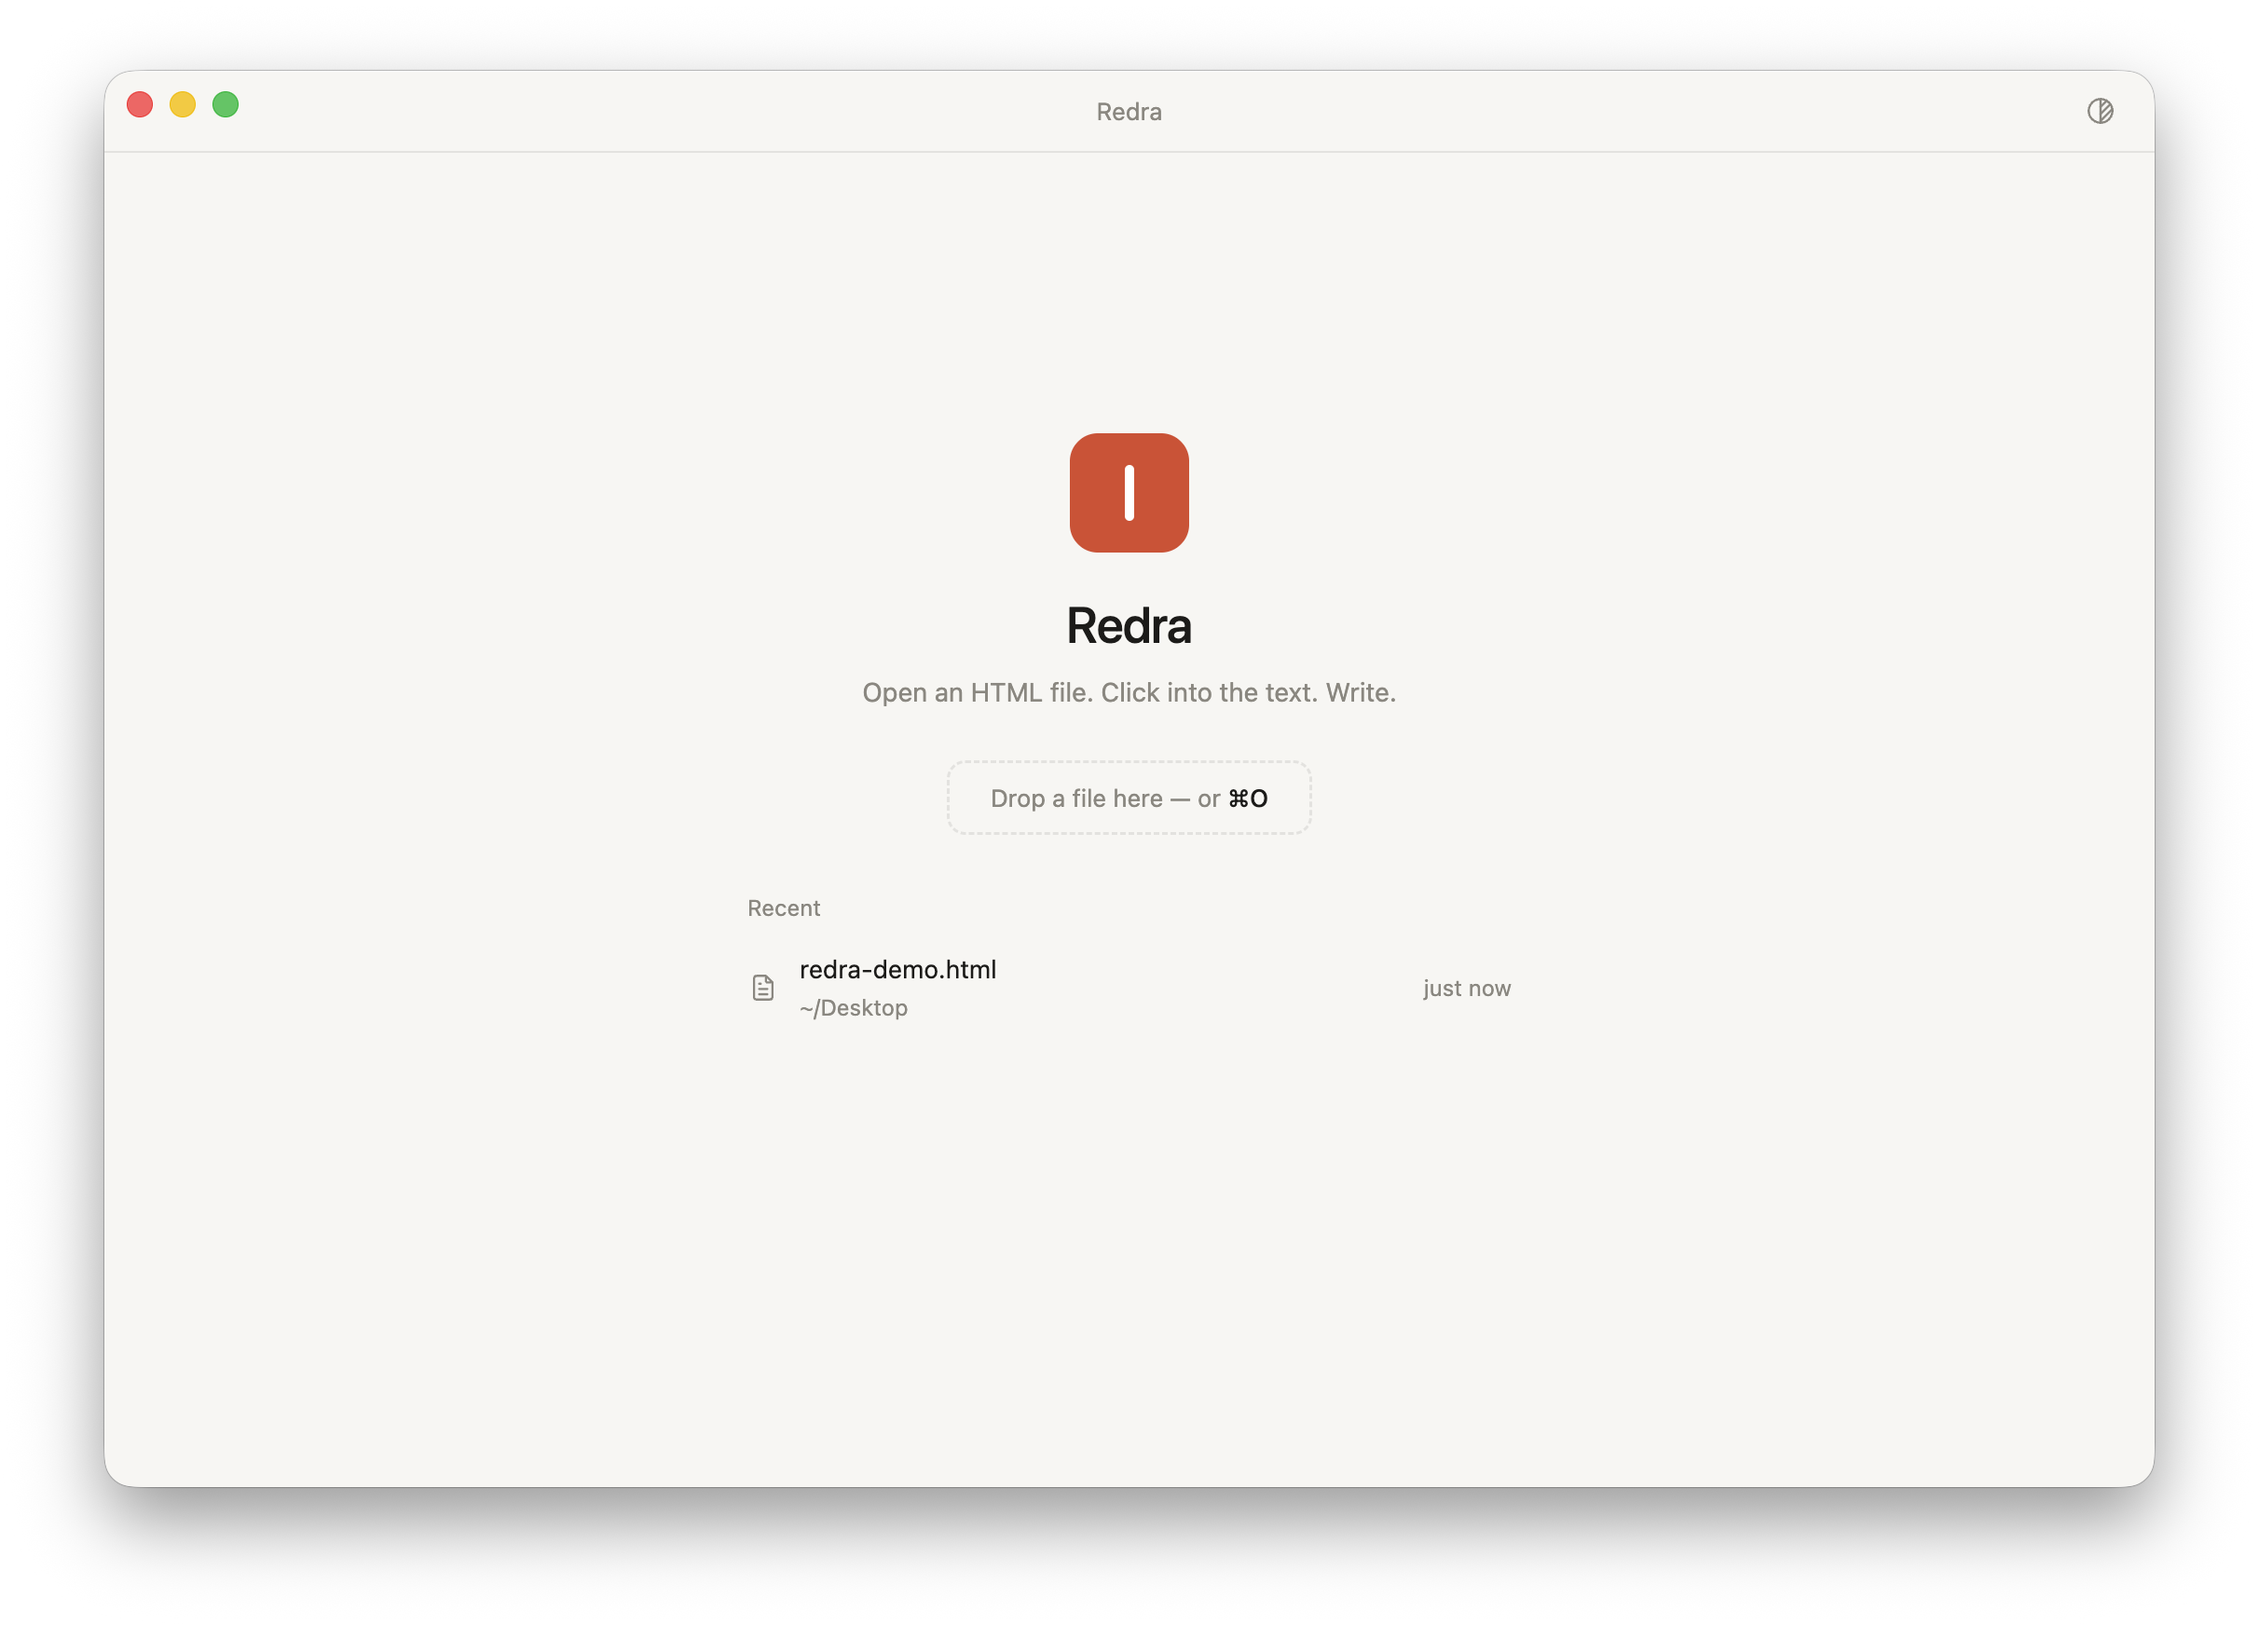
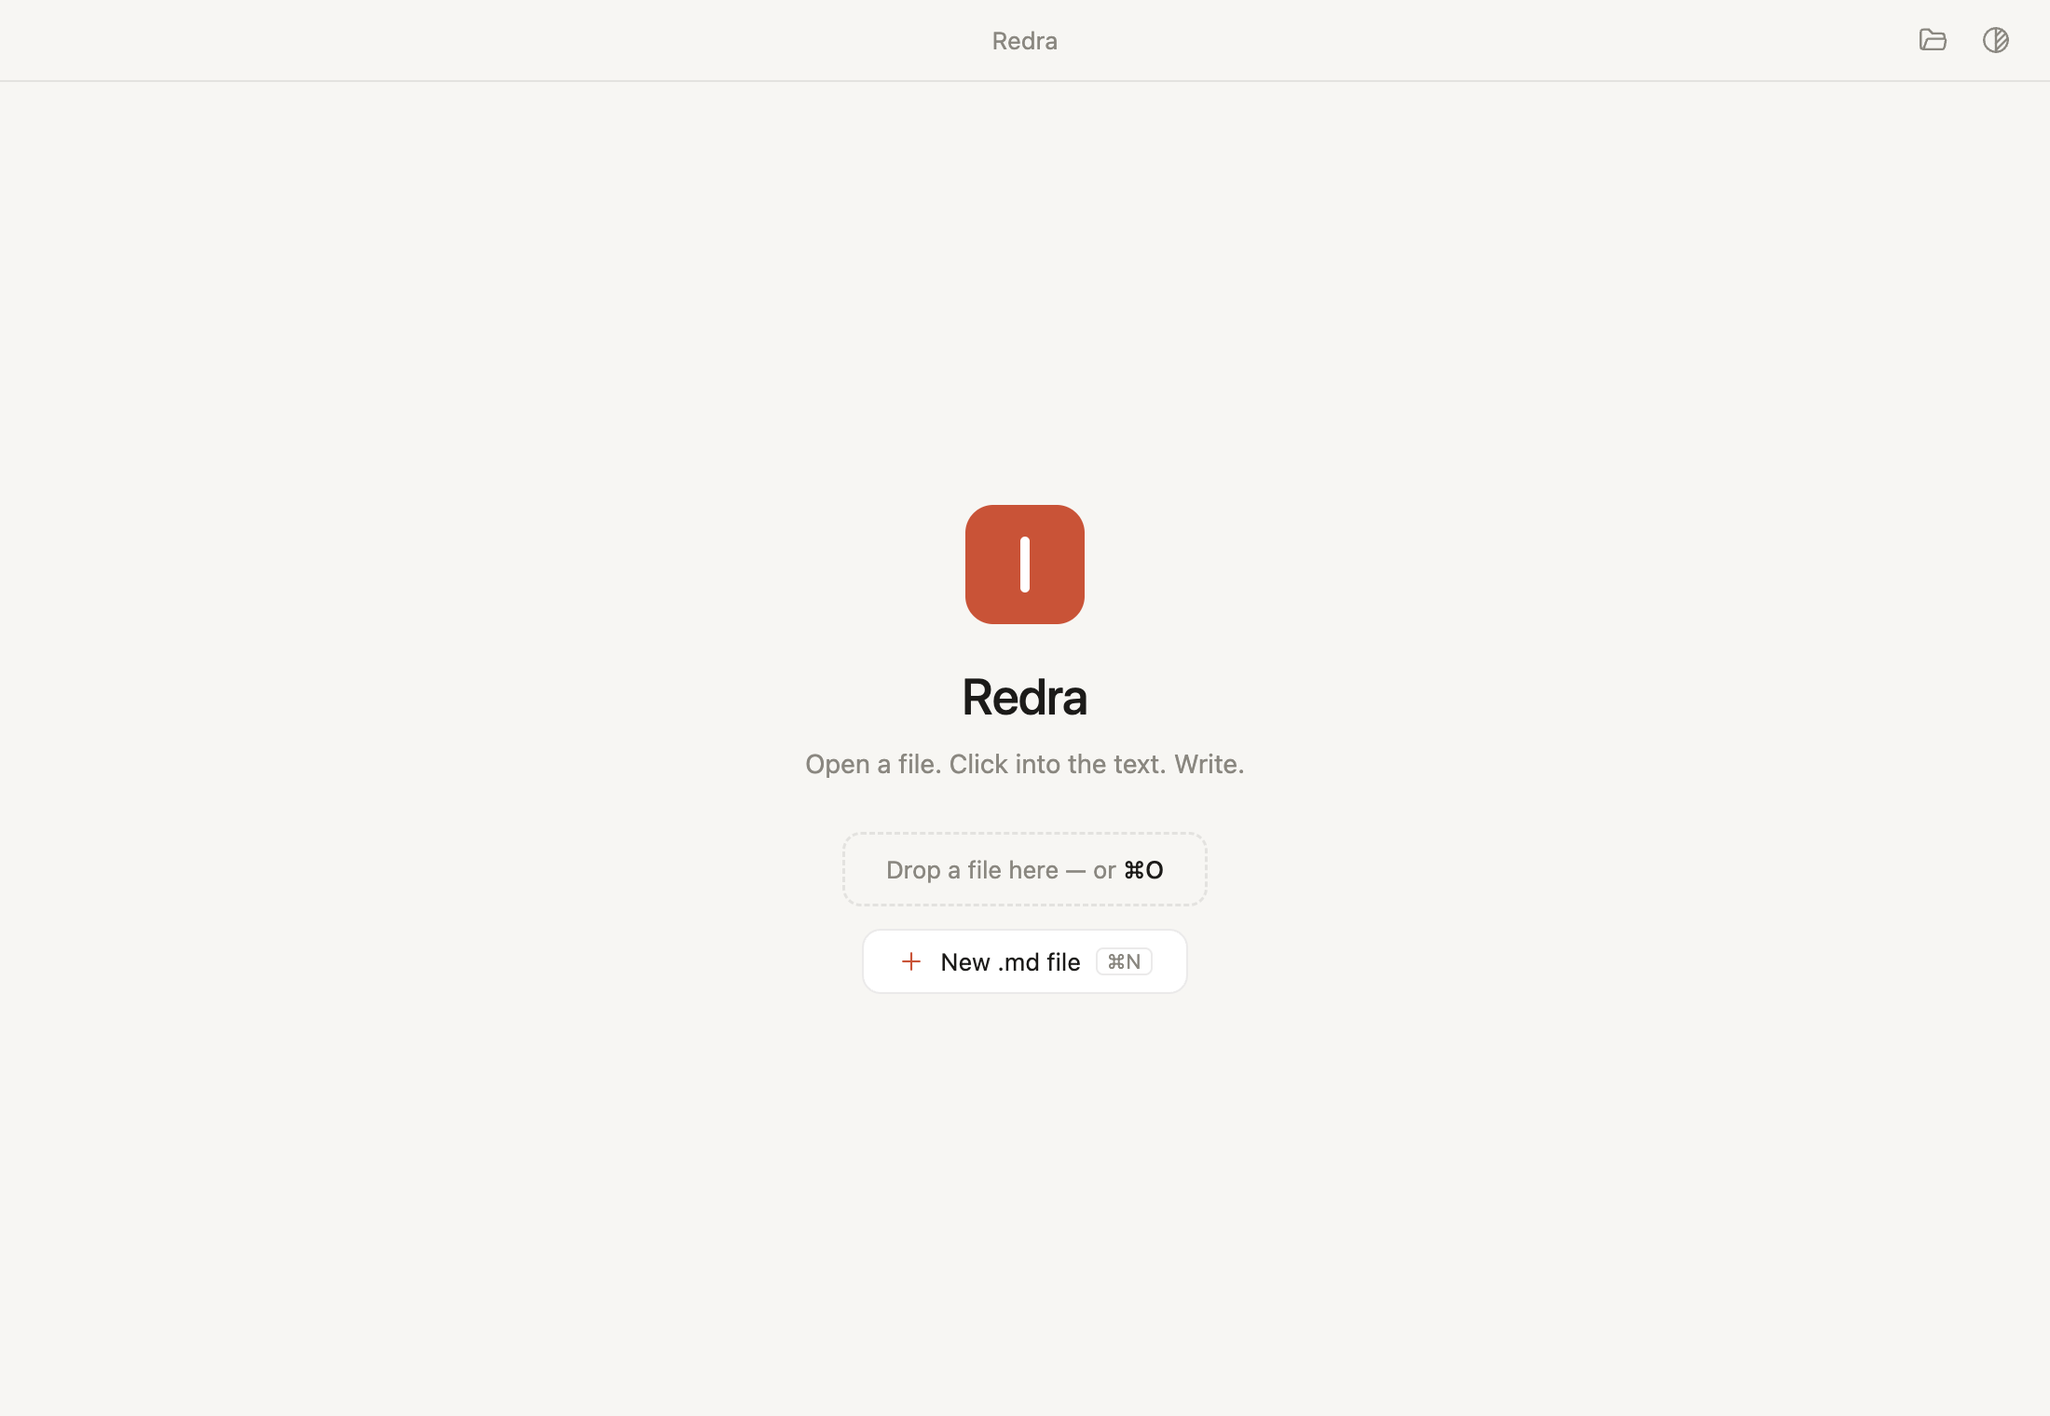
docs: fresh v0.5.0 screenshots — Markdown face, slash menu, new start screen
- redra-md.png: a live .md document with the two-row selection toolbar,
  checkboxes, spoiler blur, highlight, quote and a code fence (staged via the
  screenshot harness's new --screenshot-find, which selects text so the real
  toolbar pops).
- redra-slash.png: the slash menu open over the document (--screenshot-slash
  stages an empty paragraph + a '/' keydown against the real controller).
- redra-start.png: refreshed — the 'New .md file' button is on it now.
- README: the Markdown shot is the face; the HTML shot moved into 'Why your
  file is safe'; the slash shot follows the v0.5.0 list. demo.md checked in
  as the shots' source.
- Fix caught while shooting: the toolbar's 'More ⌄' glyph was HARDCODED in
  Russian — now localized (panel.moreShort), so English systems see 'More ⌄'.

diff --git a/src/main/screenshot.ts b/src/main/screenshot.ts
@@ -12,7 +12,13 @@ import type { BrowserWindow, WebContentsView } from 'electron';
  * handle synthesized over the document); without one — the start screen.
  */
 export class ScreenshotHarness {
-  constructor(private readonly outPath: string | null) {
+  constructor(
+    private readonly outPath: string | null,
+    /** Select this text in the doc before capturing (shows the toolbar). */
+    private readonly findText: string | null = null,
+    /** Open the slash menu in a fresh empty paragraph before capturing. */
+    private readonly slash: boolean = false,
+  ) {
     if (this.outPath !== null) {
       // Light theme regardless of system setting, and a throwaway userData —
       // the user's real recents must never leak into a published screenshot.
@@ -65,6 +71,30 @@ export class ScreenshotHarness {
         x: Math.round(width / 2),
         y: 140,
       });
+      if (this.findText !== null) {
+        // Select the first match — the preload's selection toolbar pops over
+        // it exactly as it would for a user drag (selectionchange is shared).
+        await docView.webContents.executeJavaScript(
+          `window.find(${JSON.stringify(this.findText)}); void 0;`,
+        );
+      }
+      if (this.slash) {
+        // A fresh empty paragraph + a "/" keydown: the md controller's slash
+        // menu opens the same way it does for a real keystroke.
+        await docView.webContents.executeJavaScript(`(() => {
+          const main = document.querySelector('main');
+          const p = document.createElement('p');
+          p.appendChild(document.createElement('br'));
+          main.appendChild(p);
+          const r = document.createRange();
+          r.selectNodeContents(p);
+          r.collapse(true);
+          const sel = getSelection();
+          sel.removeAllRanges();
+          sel.addRange(r);
+          document.dispatchEvent(new KeyboardEvent('keydown', { key: '/', bubbles: true, cancelable: true }));
+        })(); void 0;`);
+      }
       await new Promise((r) => setTimeout(r, 400));
       // The doc view is a separate WebContentsView: the shell capture shows
       // only the strip above it — composite the two captures by rows (BGRA).

diff --git a/src/preload/editor/toolbar.ts b/src/preload/editor/toolbar.ts
@@ -296,7 +296,7 @@ const TOOL_BUTTONS: readonly ToolButtonDef[] = [
   { id: 'blockquote', cls: 'bq', titleKey: 'panel.quote', glyph: { text: '❝' }, formats: MD_ONLY, active: (s) => s.blockTag === 'blockquote', sepBefore: true, row: 2 },
   { id: 'pre', cls: 'bk c', titleKey: 'panel.code', glyph: { text: '{ }' }, formats: MD_ONLY, active: (s) => s.blockTag === 'pre', row: 2 },
   { id: 'hr', cls: 'bk', titleKey: 'panel.divider', glyph: { text: '—' }, formats: MD_ONLY, active: () => false, row: 2 },
-  { id: 'more', cls: 'more', titleKey: 'panel.more', glyph: { text: 'Ещё ⌄' }, formats: MD_ONLY, active: () => false, sepBefore: true, row: 2 },
+  { id: 'more', cls: 'more', titleKey: 'panel.more', glyph: {}, formats: MD_ONLY, active: () => false, sepBefore: true, row: 2 },
 ];
 
 export class SelectionToolbar {
@@ -343,7 +343,12 @@ export class SelectionToolbar {
     };
 
     this.buttons = TOOL_BUTTONS.filter((def) => def.formats.has(format)).map((def) => ({
-      el: makeButton(def.cls, def.shortcut ? `${t(def.titleKey)} ${def.shortcut}` : t(def.titleKey), def.glyph, () => {
+      el: makeButton(
+        def.cls,
+        def.shortcut ? `${t(def.titleKey)} ${def.shortcut}` : t(def.titleKey),
+        // The "More" opener is the one TEXT glyph — localized, never hardcoded.
+        def.id === 'more' ? { text: t('panel.moreShort') } : def.glyph,
+        () => {
         if (def.id === 'link') this.enterLinkMode();
         else if (def.id === 'more') this.togglePanel();
         else if (BLOCK_KIND_IDS.has(def.id)) this.onBlockType(def.id as BlockKind);

diff --git a/src/main/index.ts b/src/main/index.ts
@@ -63,6 +63,9 @@ const SMOKE = cliArgs.includes('--smoke');
 const cliFile = cliArgs.find((a) => !a.startsWith('-') && OPENABLE_RE.test(a));
 const shotIdx = cliArgs.indexOf('--screenshot');
 const shotPath = shotIdx >= 0 ? (cliArgs[shotIdx + 1] ?? null) : null;
+const shotFindIdx = cliArgs.indexOf('--screenshot-find');
+const shotFind = shotFindIdx >= 0 ? (cliArgs[shotFindIdx + 1] ?? null) : null;
+const shotSlash = cliArgs.includes('--screenshot-slash');
 // Hidden startup: open a fresh untitled Markdown doc (⌘N) — for the new-file
 // README screenshot and manual QA of the empty-heading state.
 const START_NEW_FILE = cliArgs.includes('--new-file');
@@ -89,7 +92,7 @@ const smoke = new SmokeHarness(
   // Smoke runs drive a single window — the first (only) context's document.
   () => registry.all()[0]?.docManager.currentDoc ?? null,
 );
-const shot = new ScreenshotHarness(shotPath);
+const shot = new ScreenshotHarness(shotPath, shotFind, shotSlash);
 let recents: RecentsStore;
 let settingsStore: SettingsStore;
 /** In-memory session shared by all shell windows and doc views (no disk state, no keychain). */

diff --git a/src/shared/i18n.ts b/src/shared/i18n.ts
@@ -160,6 +160,7 @@ const STRINGS = {
   'toolbar.code': { ru: 'Код', en: 'Code' },
   'toolbar.link': { ru: 'Ссылка', en: 'Link' },
   'panel.more': { ru: 'Ещё форматирование', en: 'More formatting' },
+  'panel.moreShort': { ru: 'Ещё ⌄', en: 'More ⌄' },
   'panel.turnInto': { ru: 'Превратить блок', en: 'Turn into' },
   'panel.moreFormat': { ru: 'Ещё форматирование', en: 'More formatting' },
   'panel.h1': { ru: 'Заголовок 1', en: 'Heading 1' },

diff --git a/README.md b/README.md
@@ -10,7 +10,7 @@ blocks by their handle, delete what you don't need, hit ⌘S — and the **same
 file** is saved back to disk, its layout (or its Markdown) intact. No code, no
 split-screen preview, no broken formatting. Or export it to PDF.
 
-![A document in Redra](docs/assets/redra-doc.png)
+![Markdown in Redra — the two-row toolbar over a live document](docs/assets/redra-md.png)
 
 ![Redra features](docs/assets/features.png)
 
@@ -37,6 +37,8 @@ split-screen preview, no broken formatting. Or export it to PDF.
 - **It matches your file's style.** Redra sniffs how an opened file already
   writes bold, lists, headings and the like, and keeps new edits in that same
   dialect — a new file uses clean, GitHub-compatible defaults.
+
+![The slash menu — type "/" on an empty line and pick a block](docs/assets/redra-slash.png)
 
 **New in v0.4.1:**
 
@@ -90,6 +92,8 @@ you opened.
 
 That's the whole trick — and it means your embedded styles, scripts, charts
 and fonts survive every edit.
+
+![An HTML document in Redra — block handle, hover highlight](docs/assets/redra-doc.png)
 
 <details>
 <summary>For the technically curious</summary>

diff --git a/docs/assets/demo.md b/docs/assets/demo.md
@@ -1,0 +1,13 @@
+# Field notes
+
+- [x] open a `.md` file
+- [ ] click anywhere and type
+- [ ] paste the post into Telegram
+
+Write **bold**, _italic_, drop in a [link](https://example.com), hide a ||spoiler|| or ==highlight== what matters.
+
+> Markdown is text — Redra just makes it look finished.
+
+```js
+const saved = byteIdentical(untouchedBlocks);
+```
